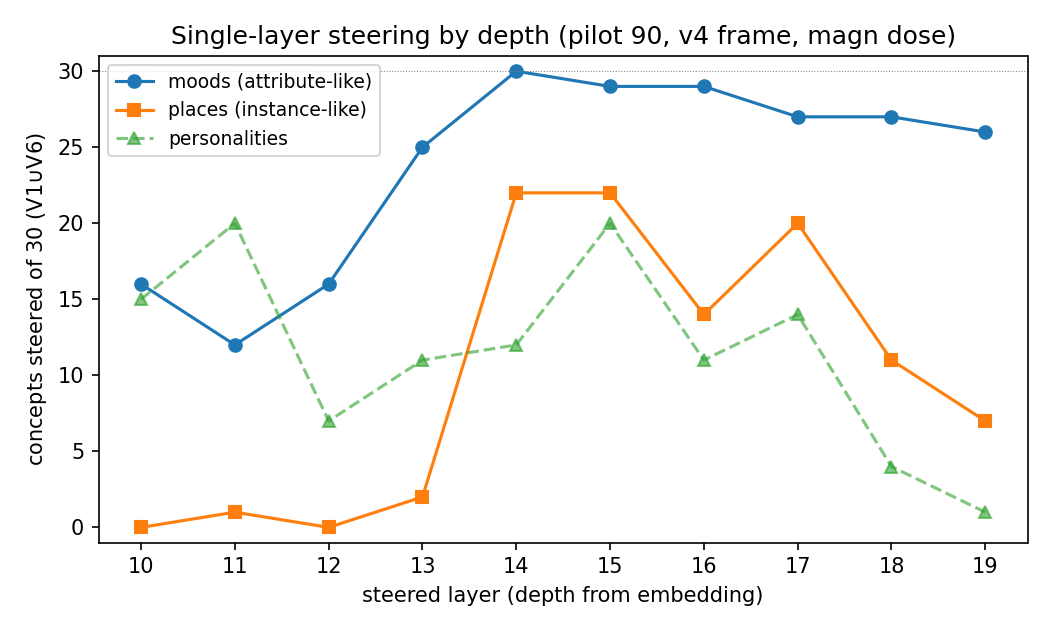
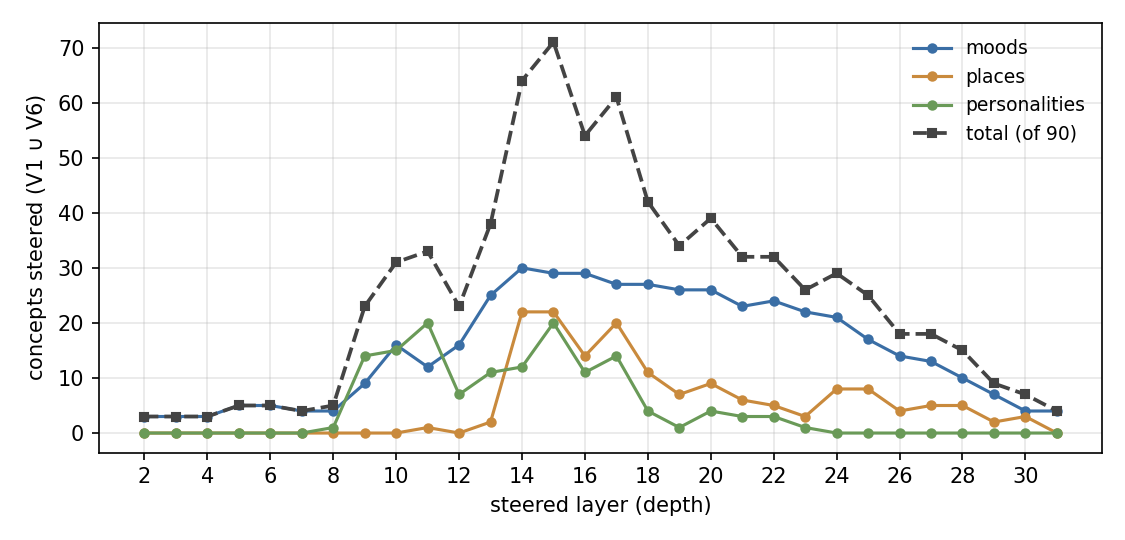
RUN 025: pilot depth sweep extended to full L2-L31 grid -- hard floor at d8, nested class windows (onsets by abstractness, closures reversed), peak stays d15; figure regenerated, paper depth-sweep + Appendix C updated

diff --git a/paper/appendix_experiments.tex b/paper/appendix_experiments.tex
@@ -141,7 +141,7 @@ v2b frame, median $.716$ with a long informative tail; Appendix B bullets).}
 % Step 3: where to inject (layer sets, the depth sweep) and how hard (dose).
 \begin{outline}
 \item [+] \textbf{Cross-layer directions are near-orthogonal} (cosine $\approx$0.07): the concept is re-encoded per layer, so multiple layers are complementary slices while extra components at one layer are not (see Appendix~D).
-\item [+] \textbf{Depth sweep (pilot 90, v4 directions, single-layer magn, depths 10--19; Fig.~\ref{fig:depthsweep}).} Totals 31/33/23/38/64/71/54/61/42/34 (d10$\to$d19; V1$\cup$V6). Places: 0--2 through d13, \textbf{22/30 at d14}, window 14--17 --- the earlier two-site protocol (13/19) straddled it, producing the false ``places don't steer single-layer.'' Moods: onset $\le$10, plateau 25--30 through d19. Personalities: no single-layer home (peak 20, collapse to 1 at d19). Peak single-site d15 = 71/90 vs.\ all-layer 77. Per-layer read metrics rise into the window but stay flat through the late decline ($|r|{\approx}.5$--$.6$): the window is not recoverable read-side. RUNLOG 021.
+\item [+] \textbf{Depth sweep (pilot 90, v4 directions, single-layer magn, depths 2--31, i.e.\ every layer but the first and last; Fig.~\ref{fig:depthsweep}).} Peak single-site d15 = 71/90 vs.\ all-layer 77. Depths 2--7 are dead for all classes (totals 3--5, a trickle of moods at floor level). Places: 0--2 through d13, \textbf{22/30 at d14}, window 14--17, low tail (3--9) through the twenties, 0 at d31 --- the earlier two-site protocol (13/19) straddled the window, producing the false ``places don't steer single-layer.'' Moods: onset d9--10 (\emph{not} earlier --- the 10--19 grid could only bound it), plateau 25--30 from d13 to $\sim$d20, graceful decay to 4 at d31. Personalities: sharp onset at d8--9 (1$\to$14), no strong single-layer home (peak 20), collapse to 0 from d23 --- the narrowest window of the three. Onsets are ordered by abstractness and closing edges in reverse (personalities die first, moods last). Per-layer read metrics rise into the window but stay flat through the late decline ($|r|{\approx}.5$--$.6$): the window is not recoverable read-side. RUNLOG 021, 025.
 \item [--] Single-site depth-19 (pre-sweep evidence, orig frames): \emph{no behavioral window} --- lexical word-lists (bitter $\to$ ``bitter, cold, dry, sarcastic'') $\to$ repetition collapse within 0.5--2$\times$ local stream norm. Late injection biases output \emph{tokens}, not behavior.
 \item [+] Single-site depth-13 (pre-sweep, orig frames): wide behavioral window but places 0/15, saturating at the category prototype (``quiet beach at sunset'' for every city) with region-level near-misses (Edinburgh$\to$Dublin pub). Coefficient is not the limiting factor; \emph{vector content} is.
 \item [+] All-layer steering (benchmark defaults): places reach \emph{region} granularity (Edinburgh$\to$Scottish Highlands with Scots dialect) --- per-layer residue accumulation + late lexical tipping + autoregressive bootstrap.
@@ -161,10 +161,11 @@ v2b frame, median $.716$ with a long informative tail; Appendix B bullets).}
 \begin{figure}[t]
 \centering
 \includegraphics[width=\columnwidth]{depth_sweep_fv4.png}
-\caption{Retention by steered depth (pilot 90, v4
-directions, single-layer magn dose). Attributes (moods) steer shallow and
-everywhere; entity identities (places) switch on sharply at depth 14 (of 32),
-window 14--17; personas never find a single-layer home.}
+\caption{Retention by steered depth (pilot 90, v4 directions, single-layer magn
+dose, all depths 2--31). Nothing steers in the first quarter of the network;
+attributes (moods) switch on at depth 9--10 and decay last; entity identities
+(places) switch on sharply at depth 14 (of 32), window 14--17; personas have the
+narrowest window (9--22) and never find a strong single-layer home.}
 \label{fig:depthsweep}
 \end{figure}
 

diff --git a/paper/main.tex b/paper/main.tex
@@ -231,9 +231,9 @@ $^{\dagger}p{<}.1$, $^{*}p{<}.05$, $^{**}p{<}.01$.}
 
 
 \begin{outline}
-\item \textbf{Design.} Pilot 90 (moods/places/personalities) $\times$ every single-layer depth 10--19, magn dose, v4 directions, V1$\cup$V6 (Figure~\ref{fig:depthsweep}). (half para)
-\item \textbf{Result 1: entity concepts have a sharp onset at depth 14 (of 32).} Places: 0--2/30 at depths 10--13, then \textbf{22/30 at depth 14}, window 14--17, fading by 19. This dissolves the earlier ``places don't steer single-layer'' conclusion: the old two-site protocol (13/19) \emph{straddled the window}. (half para)
-\item \textbf{Result 2: attribute concepts steer shallow and everywhere.} Moods: 16/30 already at depth 10, plateau 25--30 from depth 13 through 19 --- attributes become injectable $\sim$4 layers before instances (the abstraction-depth hypothesis, confirmed ordinally). Personalities never find a single-layer home (peak 20, collapse to 1 by depth 19) --- persona content appears genuinely multi-site. (half para)
+\item \textbf{Design.} Pilot 90 (moods/places/personalities) $\times$ every single-layer depth 2--31 (all layers except the very first and last), magn dose, v4 directions, V1$\cup$V6 (Figure~\ref{fig:depthsweep}). \textbf{[NEW jul12: sweep extended from 10--19 to the full 2--31 grid.]} (half para)
+\item \textbf{Result 1: entity concepts have a sharp onset at depth 14 (of 32).} Places: 0--2/30 at every depth $\le$13, then \textbf{22/30 at depth 14}, window 14--17, then a low tail (3--9) through the twenties and 0 by depth 31. This dissolves the earlier ``places don't steer single-layer'' conclusion: the old two-site protocol (13/19) \emph{straddled the window}. (half para)
+\item \textbf{Result 2: nothing steers in the first quarter of the network, and the three classes have nested windows.} Depths 2--7 are dead for all classes (a 3--5 concept trickle of moods, floor noise). Onsets are ordered by abstractness --- personalities and moods switch on at depth 8--9 (1$\to$14 and 4$\to$9), places at 14 --- and so are the closing edges, in reverse: personalities collapse first (0 from depth 23), places fade through the twenties, moods decay last and most gracefully (plateau 25--30 from depth 13 to $\sim$20, still 10+ at depth 27, 4 at depth 31). Personalities never find a strong single-layer home (peak 20 at depths 11/14) --- persona content appears genuinely multi-site. (half para)
 \item \textbf{Result 3: one well-chosen layer $\approx$ all layers} (71/90 at depth 15 vs.\ 77/90 all-layer): the all-layer advantage is largely \emph{not knowing the window}, not distributed injection per se (except personalities). Per-layer read-side metrics rise into the window but entirely miss the late decline ($|r| \approx .5$--$.6$): first-steerable-depth is a \emph{write} property. (half para)
 \item \textbf{Future work:} same sweep on the six featured WordNet cells (150 concepts) with taxonomic depth as ground truth (hypernyms shallower than hyponyms?); independence from the spectral axis assessed within supersense; compositional vignette --- is direction(``strict father'') $\approx \alpha\,$direction(``strict'') $+ \beta\,$direction(``father'')? (half para)
 \end{outline}

diff --git a/RUNLOG.md b/RUNLOG.md
@@ -25,4 +25,5 @@
 | 022 | jul10 | pod-5090 | Lall_K1ev_def_fv4 (wordnet, gemma files) | gemma-2-9B | Gemma replication of the v4 600-run: v4 frame, all-layer K=1, coefs [14,17,20,23] (shifted from [12,15,18,21] per run-012 dose-response), versions 1+6; extraction ~10h, gen 1.3h, judge 1.4h | v1 168/600; v6 182/600; union 224/600 (37.3%) vs llama 249 (41.5%) | v4 gain replicates cross-model (both ~2x their v2b rates). CONVERGENCE UP under better instrument: item phi=0.43 (v2b: 0.33), supersense profile r=0.44 (v2b: 0.12 n.s.) -- part of v2b item-divergence was instrument noise. Lexical laws replicate STRONGLY (conc -0.20*, zipf +0.23-dagger, aoa -0.49**, polysemy -0.35**). Spectral null at llama's 40%-depth convention BUT significant at 60-70% depth (PR -0.42**, frac1 +0.39**): same law, model-specific depth. Gemma top: event/phenomenon/group; body bottom in both models |
 | 023 | jul10 | local-Mac | ceiling_{llama,gemma} | llama-8B + gemma-2-9B | Prompted-ceiling control: 1 unsteered generation per concept ("Tell me about '{c}'.") + gpt-oss judge (adapted template), 600 concepts per model, ~30min/model | llama 578/600 expressible; gemma 586/600 | Steering failures are NOT expression failures: ceiling-conditional steering rate 241/578 (41.7%) == unconditional (41.5%); noun.body 25/25 expressible (its 2/25 steering = true steering floor); floor cell quantity 22/25. Residual ceiling-fails mostly judge strictness on polysemous items (ray, seven, junk) -- 8 of them steer anyway. steering_benchmark/run_ceiling.py |
 | 024 | jul11 | local-Mac | (analysis only, Lall_K1ev_def_fv4 csvs) | llama-8B + gemma-2-9B | Token-count covariate audit: per-model-tokenizer boxplots (plots/make_token_boxplots.py) + regression respec. AUDIT FINDING: the published gemma regression had reused the dataset's LLAMA-tokenizer n_tokens column; reproduced published columns exactly (llama PR@d13 AIC 763.6, gemma PR@d25 AIC 750.9), then corrected gemma to its own tokenizer | n_tokens null everywhere: univariate MW p=.16 (llama) / .074 (gemma); coef n.s. in every spec | Correction moves gemma zipf +0.23(p<.1) -> +0.17 n.s. (all other coefs stable); paper headline claims softened to "signs replicate; all 4 significant in llama, 3 of 4 in gemma". Freq effect is NOT tokenization length. tab:reg600v4 + R2 bullet updated; scratch reg harness reproduces both published columns digit-for-digit before the swap |
+| 025 | jul11-12 | local-Mac | Lm30..Lm23 + Lm12..Lm1 _K1ev_magn_fv4 (pilot 90, 20 tags) | llama-8B | DEPTH SWEEP EXTENSION: single-layer steering at depths 2-9 and 20-31 (completes the full 2-31 grid with run 021's 10-19), magn coefs [1,2,3,4], versions 1+6, fv4 pilot directions; ~11h total (driver run_sweep_pilot_L2_L31.sh; plot scripted in plots/make_depth_sweep.py) | totals d2..d31: 3/3/3/5/5/4/5/23/31/33/23/38/64/71/54/61/42/34/39/32/32/26/29/25/18/18/15/9/7/4 | HARD FLOOR at d8: depths 2-7 dead for all classes (3-5 mood trickle = floor noise). Onsets ordered by abstractness (personalities d8-9 1->14, moods d9-10, places d14) and closing edges reversed (personalities 0 from d23; places low tail through twenties, 0 at d31; moods graceful decay, 4 at d31). Moods widest window (9-31), personalities narrowest (9-22). Peak stays d15=71/90. Paper depth-sweep section + Appendix C updated |
 | 012 | jul6-7 | pod-L40S | Lall_K1ev_def_fv2b (wordnet, gemma files) | gemma-2-9B | STAGE8: gemma replication of the main run -- 600 concepts, v2b frames, all-layer K=1, coefs [12,15,18,21], versions 1+6, gpt-oss judge | v1 60/600; v6 83/600; union 113/600 (18.8%) | RATE replicates (llama 19.8%) but ITEMS diverge: per-concept phi=0.33 (both 53, llama-only 66, gemma-only 60); supersense profile does NOT replicate (r=0.12 n.s.; gemma top = cognition 10/process 9/phenomenon 8 vs llama feeling/communication/food). Cross-model spectral corr ~0.13-0.16 (model-specific, matches pilot frac1 inversion). Regression signs replicate directionally in gemma (conc -0.19 p=.09, zipf +0.31 p=.06; PR n.s.). Generality holds for rates+laws, not items. Extraction 14.5h, gen 2.25h, judge 2.25h |
